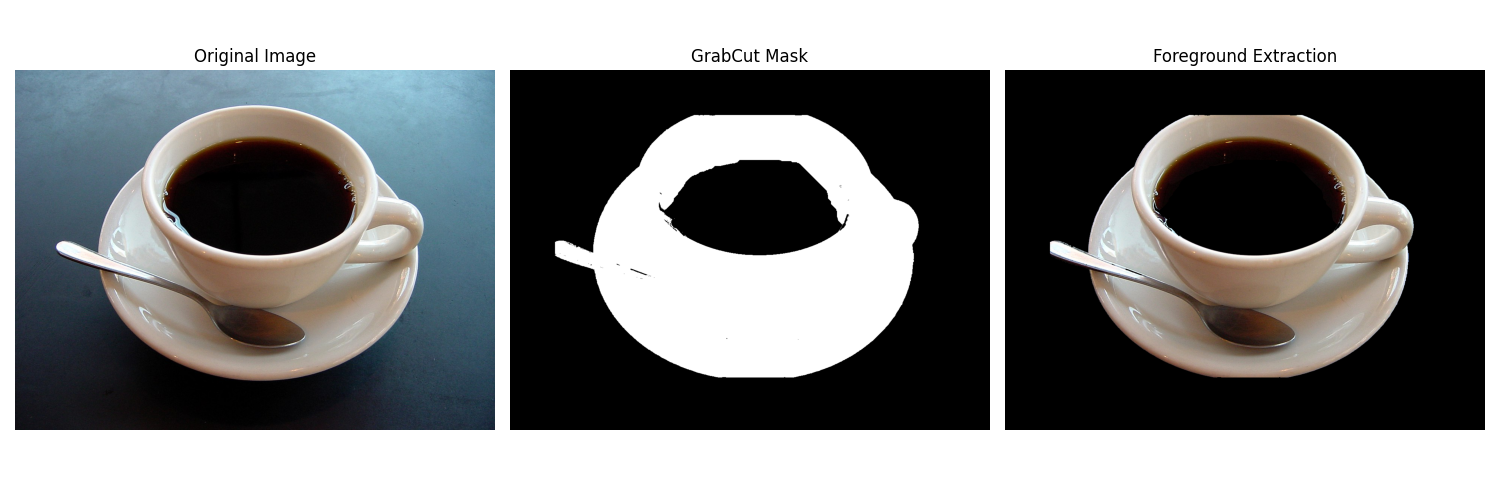
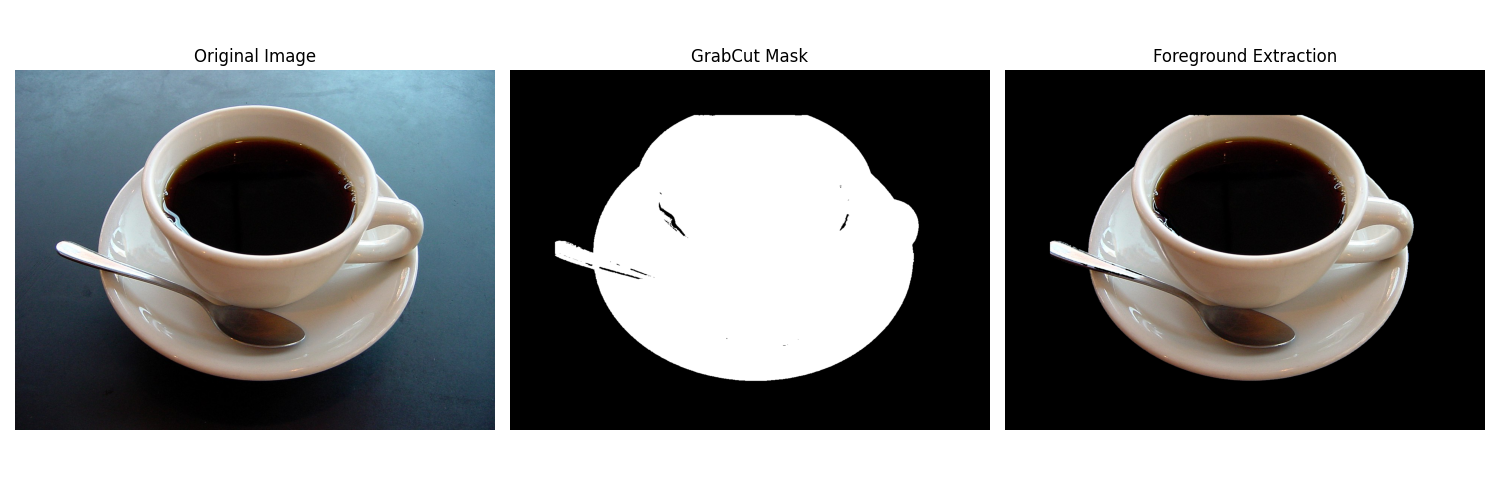
이미지 수정

diff --git a/chapter03_Edge and Region/03_grabcut.py b/chapter03_Edge and Region/03_grabcut.py
@@ -8,7 +8,7 @@ mask = np.zeros(img.shape[:2], np.uint8)   # 이미지 크기와 같은 2차원 
 bgdModel = np.zeros((1, 65), np.float64)   # 배경 모델 배열을 0으로 초기화함 → GrabCut이 배경 정보를 저장할 준비를 함
 fgdModel = np.zeros((1, 65), np.float64)   # 전경 모델 배열을 0으로 초기화함 → GrabCut이 객체 정보를 저장할 준비를 함
 
-rect = (120, 120, 1040, 700)               # 초기 사각형 영역을 지정함 → 컵과 접시가 포함된 전경 후보 영역이 설정됨
+rect = (120, 120, 1040, 750)               # 초기 사각형 영역을 지정함 → 컵과 접시가 포함된 전경 후보 영역이 설정됨
 
 cv.grabCut(                                # GrabCut 알고리즘을 실행함 → 사각형 기준으로 전경/배경이 분할됨
     img,                                   # 원본 이미지를 입력함 → 분할 기준이 되는 실제 영상이 사용됨
